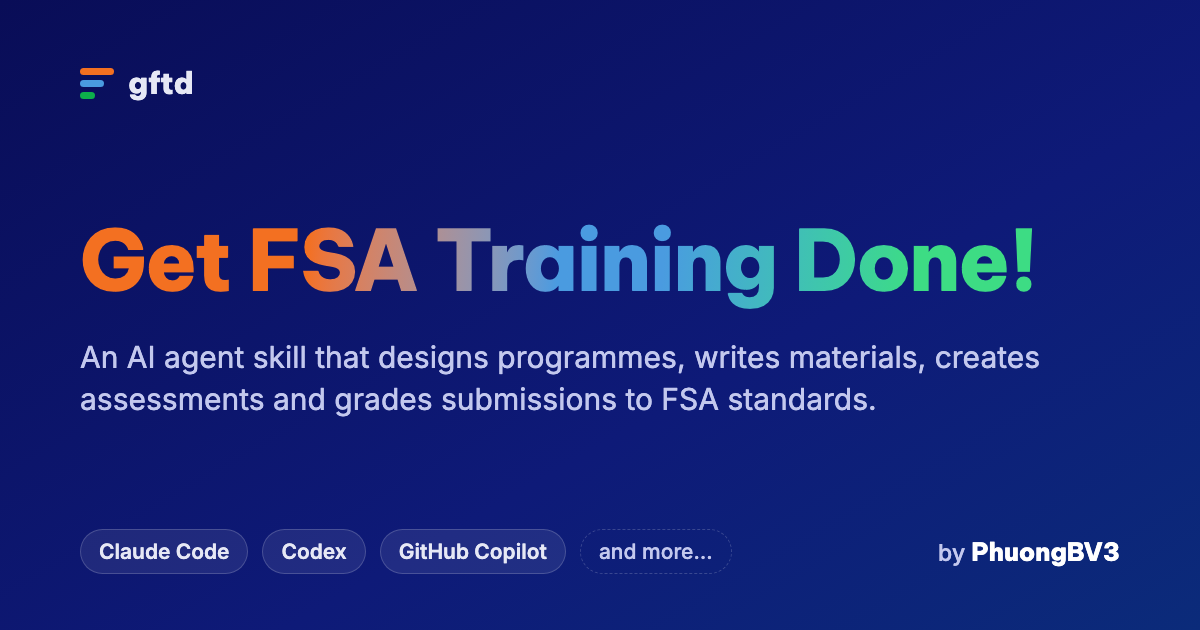
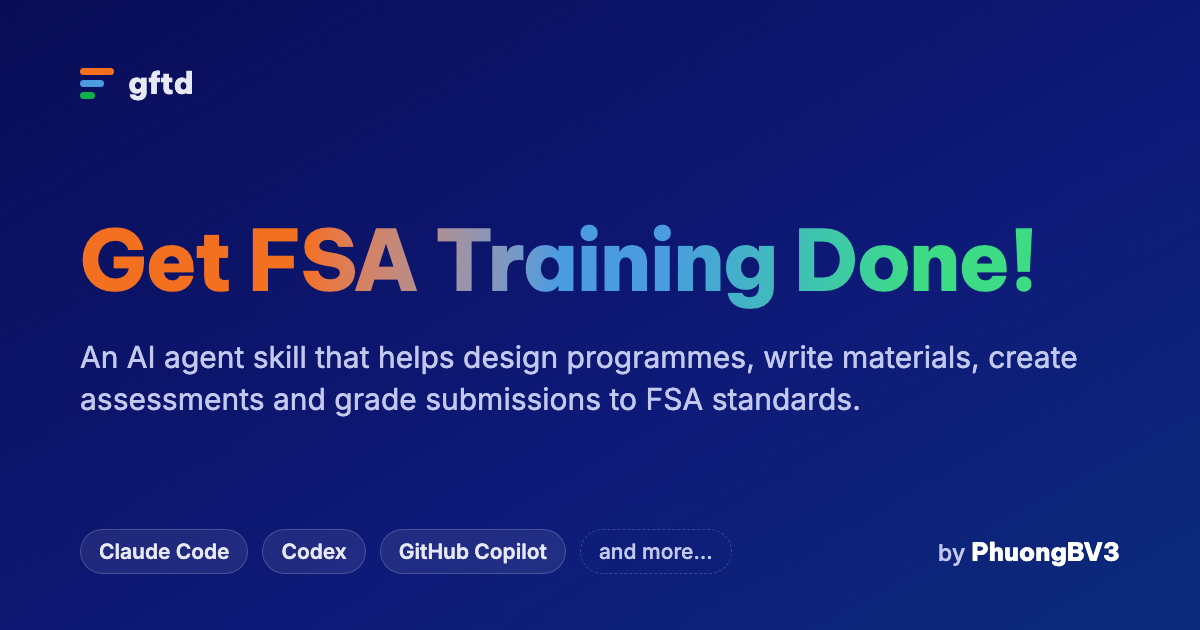
Update Twitter card title and descriptions for clarity; enhance content in various sections

Changed region(s): [[0.3083, 0.5429, 0.8942, 0.6635]]

diff --git a/docs/index.html b/docs/index.html
@@ -20,7 +20,7 @@
 <meta property="og:locale" content="vi_VN">
 <meta property="og:locale:alternate" content="en_US">
 <meta name="twitter:card" content="summary_large_image">
-<meta name="twitter:title" content="Get FSA Training Done! | Thiết kế khoá học FSA">
+<meta name="twitter:title" content="Get FSA Training Done! | AI agent skill for FSA trainer">
 <meta name="twitter:description" content="AI agent skill hỗ trợ thiết kế chương trình, soạn học liệu, ra đề và chấm bài theo chuẩn FSA.">
 <meta name="twitter:image" content="https://phuongbv00.github.io/get-fsa-training-done/og-image.png">
 <link rel="icon" href="favicon.svg" type="image/svg+xml">
@@ -421,7 +421,7 @@ footer nav a:hover, .fbottom a:hover { color: var(--ink); }
   <div class="wrap">
     <div>
     <h1 class="name"><span class="grad">Get FSA <span class="nw">Training Done!</span></span></h1>
-    <p class="sub"><span class="vi">Skill giúp agent soạn syllabus, học liệu, ra đề và chấm bài theo mẫu FSA, có kiểm tra tự động.</span><span class="en">An AI agent skill: from syllabus to grading, in FSA templates, checked automatically.</span></p>
+    <p class="sub"><span class="vi">AI agent skill hỗ trợ thiết kế chương trình, soạn học liệu, ra đề và chấm bài theo chuẩn FSA.</span><span class="en">An AI agent skill that helps design programmes, write materials, create assessments and grade submissions to FSA standards.</span></p>
     <div class="ctas">
       <a class="btn btn-primary" href="#start"><span class="vi">Cài đặt</span><span class="en">Get started</span> →</a>
       <a class="btn btn-ghost" href="#quiz"><span class="vi">Xem cách hoạt động</span><span class="en">See how it works</span></a>
@@ -474,7 +474,7 @@ footer nav a:hover, .fbottom a:hover { color: var(--ink); }
   <div class="wrap">
     <div class="copy reveal">
       <div class="kick">Assessment</div>
-      <h2><span class="vi">Soạn đủ dạng bài, từ quiz đến capstone</span><span class="en">Every kind of assessment, Quiz to Capstone Project</span></h2>
+      <h2><span class="vi">Soạn đủ dạng bài, từ quiz đến capstone project</span><span class="en">Every kind of assessment, Quiz to Capstone Project</span></h2>
       <ul class="ticks">
         <li>Quiz · Short &amp; Long Assignment · Theory &amp; Practice Exam · Capstone Project</li>
         <li><span class="vi">Độ khó phù hợp trình độ, có bản EN/VI và rubric</span><span class="en">Pitched to the level, EN/VI, rubric included</span></li>
@@ -540,7 +540,7 @@ footer nav a:hover, .fbottom a:hover { color: var(--ink); }
   <div class="wrap">
     <div class="copy reveal">
       <div class="kick">Material</div>
-      <h2><span class="vi">Đủ học liệu cho từng buổi học</span><span class="en">Materials for every session</span></h2>
+      <h2><span class="vi">Học liệu đầy đủ cho từng buổi học</span><span class="en">Materials for every session</span></h2>
       <ul class="ticks">
         <li><span class="vi">Ghi rõ file học liệu cho từng buổi trong lịch học</span><span class="en">The plan names each session's file — nothing left out</span></li>
         <li><span class="vi">Dùng chung 1 template cho bài giảng, lab, handbook</span><span class="en">One template for notes, labs and handbooks</span></li>
@@ -672,7 +672,7 @@ footer nav a:hover, .fbottom a:hover { color: var(--ink); }
     <div class="fcols">
       <div class="fbrand">
         <span class="brand"><span class="mark" aria-hidden="true"><i></i><i></i><i></i></span>Get FSA Training Done!</span>
-        <p><span class="vi">Skill cho AI agent: thiết kế chương trình, soạn học liệu, ra đề và chấm bài theo chuẩn FSA.</span><span class="en">An AI agent skill that designs programmes, writes materials, creates assessments and grades submissions to FSA standards.</span></p>
+        <p><span class="vi">AI agent skill hỗ trợ thiết kế chương trình, soạn học liệu, ra đề và chấm bài theo chuẩn FSA.</span><span class="en">An AI agent skill that helps design programmes, write materials, create assessments and grade submissions to FSA standards.</span></p>
         <a class="author" href="https://github.com/phuongbv00">
           <img src="https://github.com/phuongbv00.png?size=80" alt="" width="40" height="40" loading="lazy">
           <span><small><span class="vi">Tác giả</span><span class="en">Built by</span></small><b>PhuongBV3</b></span>
@@ -713,7 +713,7 @@ footer nav a:hover, .fbottom a:hover { color: var(--ink); }
     vi: { title: 'Get FSA Training Done! | AI agent skill',
           desc: 'AI agent skill hỗ trợ thiết kế chương trình, soạn học liệu, ra đề và chấm bài theo chuẩn FSA.' },
     en: { title: 'Get FSA Training Done! | AI agent skill',
-          desc: 'An AI agent skill that designs programmes, writes materials, creates assessments and grades submissions to FSA standards.' }
+          desc: 'An AI agent skill that helps design programmes, write materials, create assessments and grade submissions to FSA standards.' }
   };
   function setLang(l) {
     root.setAttribute('data-lang', l);
